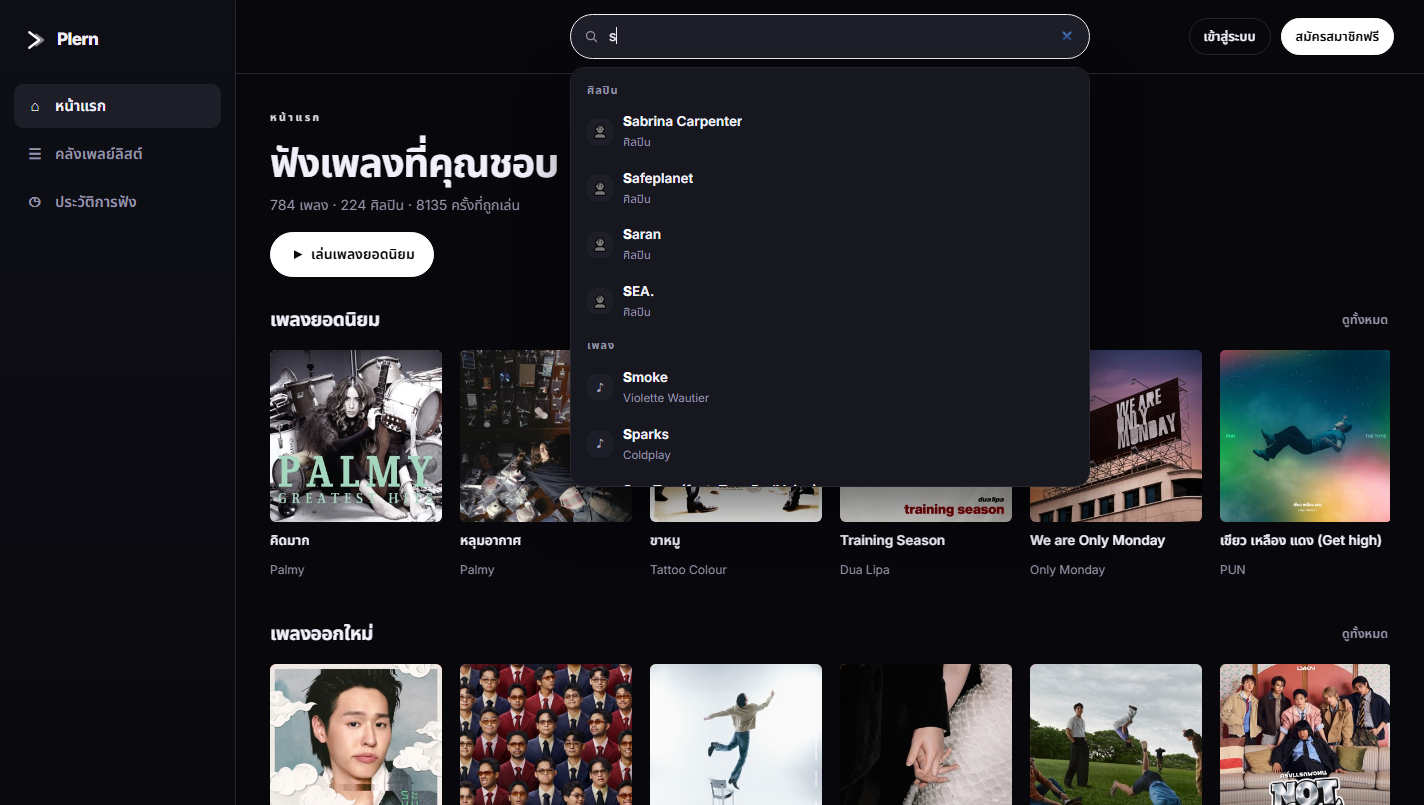
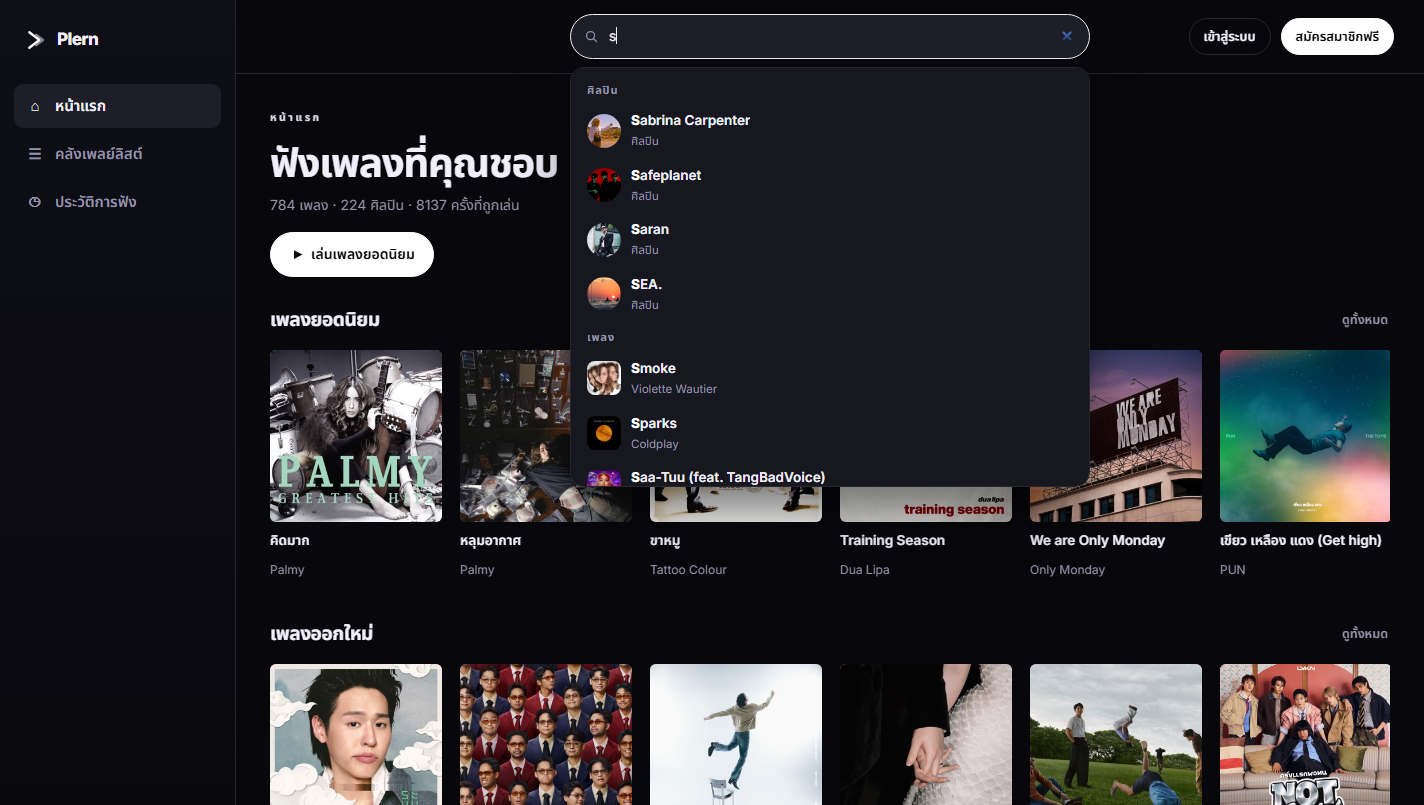
feat(search): show cover art and artist photos in the suggestion dropdown

Changed region(s): [[0.4017, 0.2795, 0.5871, 0.6211], [0.4017, 0.1242, 0.5253, 0.2484], [0.309, 0.2484, 0.3399, 0.2795]]

diff --git a/app/static/js/search.js b/app/static/js/search.js
@@ -57,9 +57,12 @@
     if (data.artists.length) {
       parts.push('<div class="sg-label">ศิลปิน</div>');
       data.artists.forEach(function (artist) {
+        const face = artist.photo
+          ? '<span class="sg-ico is-photo is-round"><img src="' + artist.photo + '" alt="" loading="lazy"></span>'
+          : '<span class="sg-ico">👤</span>';
         parts.push(
           '<a class="sg-item" role="option" href="/artist/' + artist.id + '">' +
-            '<span class="sg-ico">👤</span>' +
+            face +
             '<span class="sg-text"><span class="sg-title">' + highlight(artist.name, query) + '</span>' +
             '<span class="sg-sub">ศิลปิน</span></span>' +
           '</a>');
@@ -69,9 +72,12 @@
     if (data.songs.length) {
       parts.push('<div class="sg-label">เพลง</div>');
       data.songs.forEach(function (song) {
+        const art = song.cover
+          ? '<span class="sg-ico is-photo"><img src="' + song.cover + '" alt="" loading="lazy"></span>'
+          : '<span class="sg-ico">♪</span>';
         parts.push(
           '<a class="sg-item" role="option" href="/song/' + song.id + '">' +
-            '<span class="sg-ico">♪</span>' +
+            art +
             '<span class="sg-text"><span class="sg-title">' + highlight(song.title, query) + '</span>' +
             '<span class="sg-sub">' + escapeHtml(song.artist || '') + '</span></span>' +
           '</a>');

diff --git a/app/static/css/layout.css b/app/static/css/layout.css
@@ -232,3 +232,21 @@
 /* the search pill already shows focus via its border — skip the big outline */
 .search input:focus-visible,
 .search input[type="search"]:focus-visible { outline: none; }
+
+/* thumbnails in the search dropdown */
+.sg-ico.is-photo {
+  width: 34px;
+  height: 34px;
+  padding: 0;
+  border-radius: 8px;
+  overflow: hidden;
+  background: var(--panel-3);
+}
+.sg-ico.is-photo.is-round { border-radius: 50%; }
+.sg-ico.is-photo img {
+  width: 100%;
+  height: 100%;
+  object-fit: cover;
+  display: block;
+}
+.sg-item { padding: 7px 10px; }

diff --git a/app/routes/api.py b/app/routes/api.py
@@ -29,7 +29,7 @@ from .common import (
     _owned_playlist_or_404,
     _playlists_of,
 )
-from .. import db
+from .. import artwork, db
 from ..auth import hash_password, login_required, verify_password
 
 # ---------------------------------------------------------------------------
@@ -143,6 +143,8 @@ def api_suggest():
     return jsonify({
         "q": raw,
         "songs": [{"id": s["SongID"], "title": s["SongTitle"],
-                   "artist": s["MainArtistName"]} for s in songs],
-        "artists": [{"id": a["ArtistID"], "name": a["ArtistName"]} for a in artists],
+                   "artist": s["MainArtistName"],
+                   "cover": artwork.cover_url(s["SongID"])} for s in songs],
+        "artists": [{"id": a["ArtistID"], "name": a["ArtistName"],
+                     "photo": artwork.artist_photo_url(a["ArtistID"])} for a in artists],
     })

diff --git a/tools/smoke_test.py b/tools/smoke_test.py
@@ -138,6 +138,10 @@ def main() -> int:
           f"songs={len(data.get('songs', []))} artists={len(data.get('artists', []))}")
     check("suggest จำกัดจำนวน (ไม่เกิน 10 รายการ)",
           len(data.get("songs", [])) <= 6 and len(data.get("artists", [])) <= 4)
+    check("suggest แนบรูปปกเพลงมาด้วย",
+          all(s.get("cover") for s in data.get("songs", [])))
+    check("suggest แนบรูปศิลปินมาด้วย (อย่างน้อยบางคน)",
+          any(a.get("photo") for a in data.get("artists", [])))
 
     r = session.get(base + "/api/suggest", params={"q": ""}, timeout=15)
     empty = r.json()
